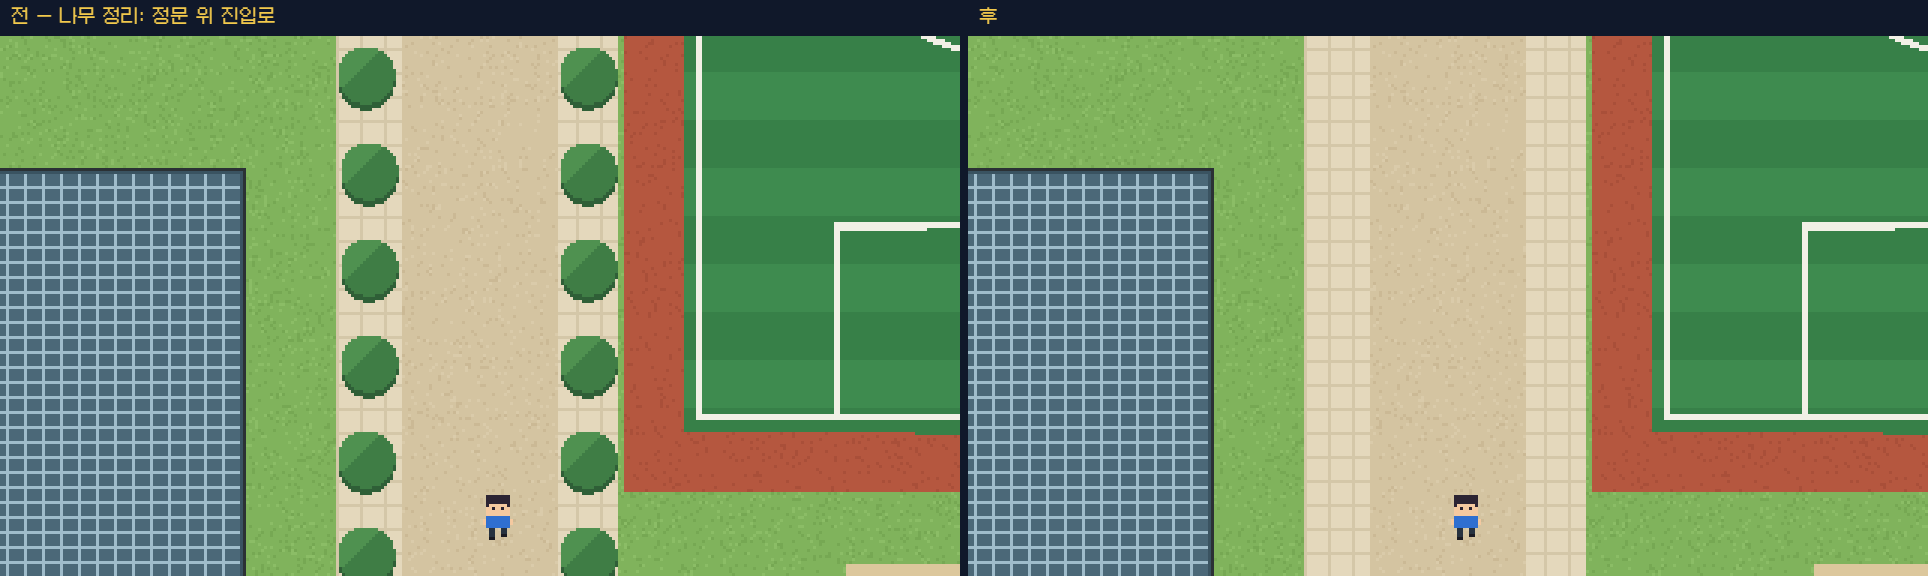
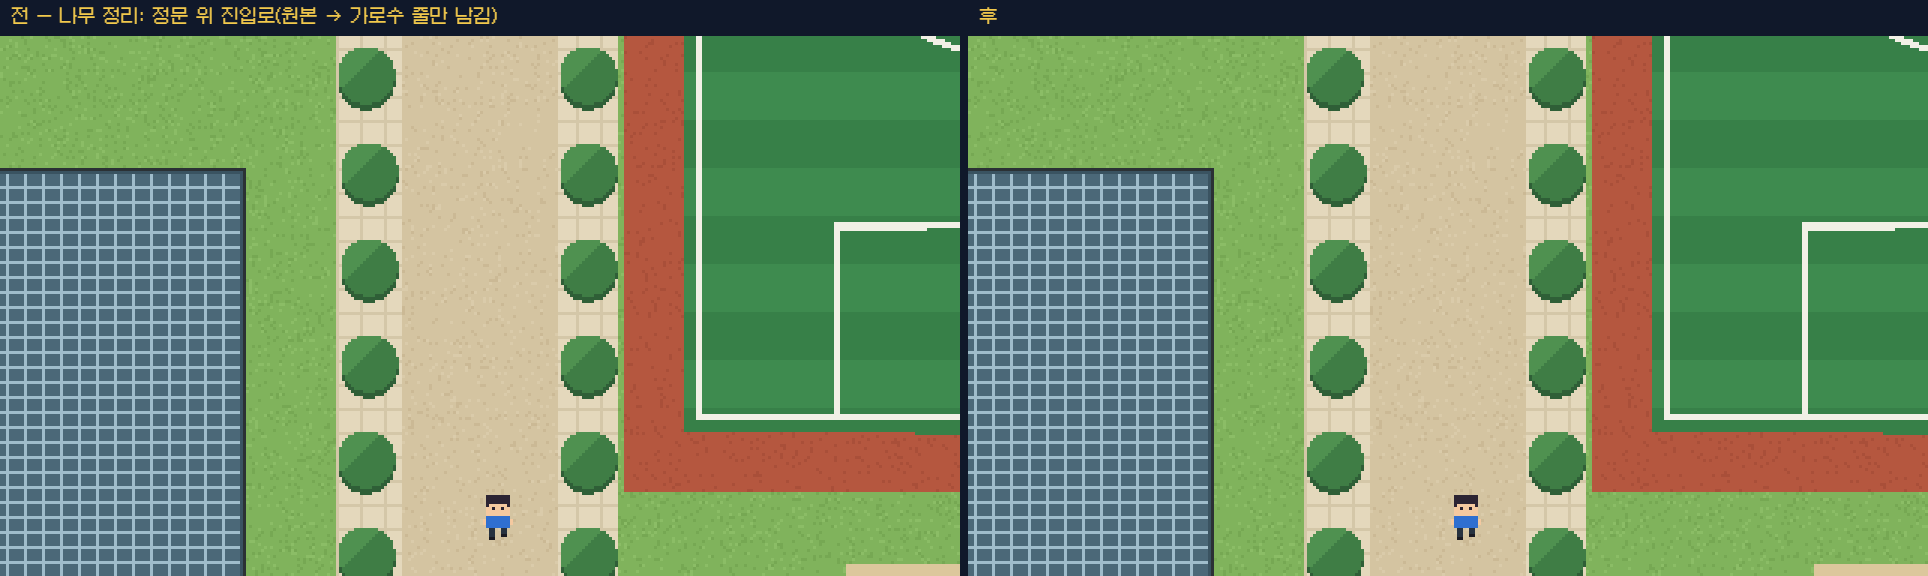
fix: 보도 가장자리 가로수 줄 되살리기(정문 위 진입로 32그루)
- 줄 판정 상수 TREE_ROW: 밑동이 보도 위 · 보도 가장자리 12px 안 · 한 직선에 같은 간격(40px 이하, 어긋남 3px 이하)으로 3그루 이상
- 길 위라 지웠던 50그루 중 32그루 되살림(정문 위 진입로 양쪽 보도 16그루씩), 18그루는 계속 지움(차도 6 · 주차장 5 · 보도 한가운데 또는 줄이 아닌 7), 겹쳐서 합친 1그루 그대로 → 그리는 나무 49 → 81그루
- 나무는 그림만: 걷기 칸 61383개 · 닿는 격자점 54823개 그대로
- 테스트: 상수 · 되살린 두 줄 · 계속 지운 나무 · 줄 판정 함수. 일부러 망가뜨려 실패 확인(7가지) 후 원복
- 캡처: cmp-trees-gate-road 다시 찍음(외국어연수평가원 앞 길은 되살린 나무가 없어 그림이 그대로)

diff --git a/src/data/campusV2.js b/src/data/campusV2.js
@@ -423,33 +423,83 @@ export function nearestPlace(x, y) {
 export const PASSAGES = PASSAGES_M.map(([name, seg]) => ({ name, seg, segPx: seg.map(toWorld) }));
 // ── 가로수 정리(그림만, 걷기 · 충돌과 무관) ─────────────────
 // 11/27 오후(PM 결정: 이종헌): campusV2Data.js TREES(원본, 맵 범위 계산에도 쓰임)는 그대로 두고 그릴 나무만 고릅니다.
-// - 길 위 나무 삭제: 밑동(줄기 가운데)이 차도 · 보도 · 건널목 · 주차장 · 계단 칸 위면 그리지 않습니다.
+// - 길 위 나무 삭제: 밑동(줄기 가운데)이 차도 · 보도 · 건널목 · 주차장 · 계단 칸 위면 그리지 않습니다(보도 가장자리 가로수 줄은 예외, 아래 TREE_ROW).
 //   잔디 · 수풀 · 흙에 서 있고 잎만 길로 튀어나온 나무는 그대로 둡니다.
 // - 겹친 나무 합치기: 두 나무 가운데 거리가 나무 지름(둘 중 큰 쪽)의 TREE_MERGE_RATIO 미만이면 먼저 나온 하나만 남깁니다.
 export const TREE_PATH_MATS = [MAT.road, MAT.pave, MAT.crosswalk, MAT.parking, MAT.steps, MAT.outerRoad];
 export const TREE_MERGE_RATIO = 0.6;
+/*
+ * 가로수 줄 되살리기(11/27 저녁, PM 결정: 이종헌): 길 위 나무라도 "보도 가장자리를 따라 일정한 간격으로 줄지어 선 가로수"는 그립니다.
+ * 줄 판정(TREE_ROW): 아래를 모두 만족하는 나무가 한 직선 위에 같은 간격으로 minCount그루 이상
+ * - mats: 밑동이 보도 칸 위(차도 · 주차장 · 건널목 · 계단 위 나무는 줄이어도 지움)
+ * - edgePx: 밑동에서 보도가 아닌 칸까지 이 거리 이하(= 보도 가장자리. 걷는 길 한가운데 나무는 지움)
+ * - maxGapPx: 이웃 나무와의 간격이 이 값 이하, tolerancePx: 같은 간격 · 같은 직선에서 벗어나도 되는 정도
+ */
+export const TREE_ROW = { mats: [MAT.pave], edgePx: 12, minCount: 3, maxGapPx: 40, tolerancePx: 3 };
+// 밑동에서 가장 가까운 "보도가 아닌 칸"까지의 거리(px). limit보다 멀면 Infinity
+export function treeEdgeDistance(x, y, limit = TREE_ROW.edgePx) {
+  const mats = new Set(TREE_ROW.mats);
+  let best = Infinity;
+  for (let dy = -limit; dy <= limit; dy++) {
+    for (let dx = -limit; dx <= limit; dx++) {
+      const d = Math.hypot(dx, dy);
+      if (d <= limit && d < best && !mats.has(matAt(x + dx, y + dy))) best = d;
+    }
+  }
+  return best;
+}
+// 길 위 나무 가운데 가로수 줄에 든 나무(Set)
+export function treeRows(trees = TREES) {
+  const { mats, minCount, maxGapPx, tolerancePx } = TREE_ROW;
+  const rowMats = new Set(mats);
+  const points = trees
+    .map((tree) => ({ tree, p: toWorld([tree[0], tree[1]]) }))
+    .filter(({ p }) => rowMats.has(matAt(p[0], p[1])) && treeEdgeDistance(p[0], p[1]) <= TREE_ROW.edgePx);
+  const at = (x, y) => points.find((q) => Math.hypot(q.p[0] - x, q.p[1] - y) <= tolerancePx);
+  const inRow = new Set();
+  for (const a of points) {
+    for (const b of points) {
+      const dx = b.p[0] - a.p[0];
+      const dy = b.p[1] - a.p[1];
+      const gap = Math.hypot(dx, dy);
+      if (a === b || gap > maxGapPx || gap <= tolerancePx) continue;
+      // a에서 b 방향으로 같은 간격만큼씩 나아가며 이어지는 나무를 모읍니다(a가 줄의 시작일 때만 minCount를 채움).
+      const run = [a, b];
+      for (let next = at(b.p[0] + dx, b.p[1] + dy); next && !run.includes(next); next = at(next.p[0] + dx, next.p[1] + dy)) run.push(next);
+      if (run.length >= minCount) run.forEach((q) => inRow.add(q.tree));
+    }
+  }
+  return inRow;
+}
 let treeResult = null;
-// { kept: [[E, N, r], …], onPath: 길 위라 지운 나무, merged: 겹쳐서 합친(지운) 나무 }
+// { kept: [[E, N, r], …](그릴 나무), rows: 길 위지만 가로수 줄이라 되살린 나무(kept에 들어 있음), onPath: 길 위라 지운 나무, merged: 겹쳐서 합친(지운) 나무 }
 export function cleanedTrees() {
   if (treeResult) return treeResult;
   const pathMats = new Set(TREE_PATH_MATS);
+  const rowTrees = treeRows();
   const kept = [];
+  const rows = [];
   const onPath = [];
   const merged = [];
   for (const tree of TREES) {
     const [x, y] = toWorld([tree[0], tree[1]]);
     if (pathMats.has(matAt(x, y))) {
-      onPath.push(tree);
-      continue;
+      if (!rowTrees.has(tree)) {
+        onPath.push(tree);
+        continue;
+      }
+      rows.push(tree);
     }
     const tooClose = kept.some((k) => {
       const [kx, ky] = toWorld([k[0], k[1]]);
       return Math.hypot(kx - x, ky - y) < Math.max(k[2], tree[2]) * 2 * PX_PER_M * TREE_MERGE_RATIO;
     });
-    if (tooClose) merged.push(tree);
-    else kept.push(tree);
+    if (tooClose) {
+      merged.push(tree);
+      if (rows.at(-1) === tree) rows.pop();
+    } else kept.push(tree);
   }
-  treeResult = { kept, onPath, merged };
+  treeResult = { kept, rows, onPath, merged };
   return treeResult;
 }
 export { TREES };

diff --git a/src/gfx/campusV2Paint.js b/src/gfx/campusV2Paint.js
@@ -112,7 +112,7 @@ export function paintRegion(x0, y0, w, h) {
     const o = (y * w + x) * 4;
     out[o] = c[0]; out[o + 1] = c[1]; out[o + 2] = c[2];
   };
-  // 가로수(그림만): 그림자 → 잎 → 밝은 면. 길 위 나무 · 크게 겹친 나무는 뺀 목록(campusV2.js cleanedTrees)
+  // 가로수(그림만): 그림자 → 잎 → 밝은 면. 길 위 나무(보도 가장자리 가로수 줄은 남김) · 크게 겹친 나무는 뺀 목록(campusV2.js cleanedTrees)
   for (const [E, N, r] of cleanedTrees().kept) {
     const [cx, cy] = toWorld([E, N]);
     const R = r * PX_PER_M;
